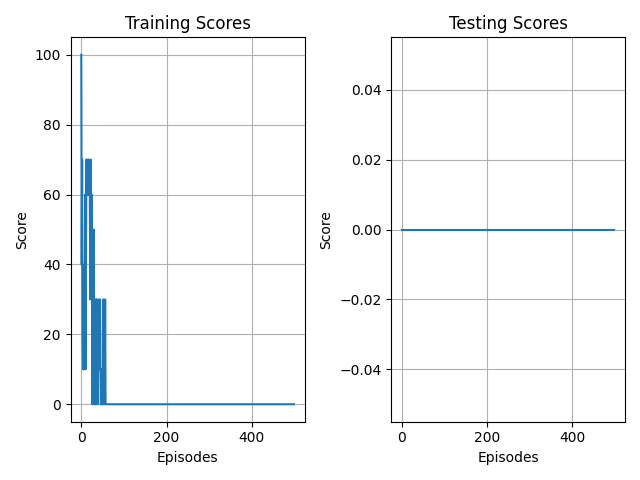
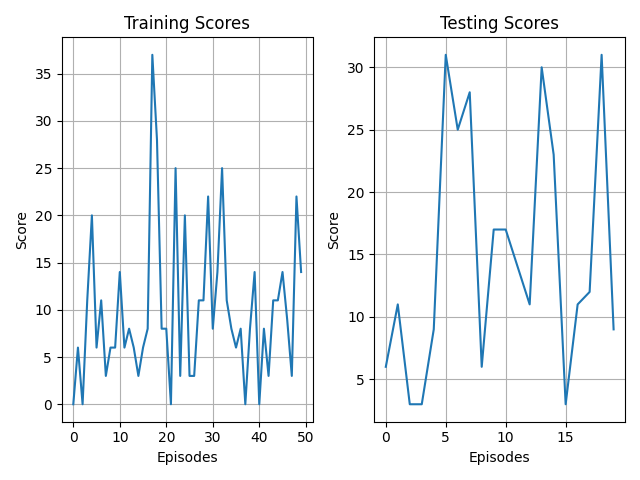
tuning

diff --git a/overcooked_wrapper.py b/overcooked_wrapper.py
@@ -14,18 +14,22 @@ class OvercookedGymWrapper(gym.Env):
         super(gym.Env, self).__init__()
 
         DEFAULT_ENV_PARAMS = {
-            "horizon": 1000
+            "horizon": 500
         }
-        rew_shaping_params = {
-            "PLACEMENT_IN_POT_REW": 10,
-            "DISH_PICKUP_REWARD": 10,
-            "SOUP_PICKUP_REWARD": 10,
-            "DISH_DISP_DISTANCE_REW": 2,
-            "POT_DISTANCE_REW": 2,
-            "SOUP_DISTANCE_REW": 2,
+        params_to_overwrite = {
+            "rew_shaping_params": {
+                "PLACEMENT_IN_POT_REW": 3,
+                "DISH_PICKUP_REWARD": 3,
+                "SOUP_PICKUP_REWARD": 5,
+                "DISH_DISP_DISTANCE_REW": 0, 
+                "POT_DISTANCE_REW": 0,
+                "SOUP_DISTANCE_REW": 0,
+            }
         }
 
-        self.mdp = OvercookedGridworld.from_layout_name(layout_name=layout_name, rew_shaping_params=rew_shaping_params)
+
+
+        self.mdp = OvercookedGridworld.from_layout_name(layout_name=layout_name, params_to_overwrite=params_to_overwrite)
         mlp = MediumLevelActionManager.from_pickle_or_compute(self.mdp, NO_COUNTERS_PARAMS, force_compute=False)
 
         self.featurize_fn = lambda x: self.mdp.featurize_state(x, mlp)
@@ -63,11 +67,15 @@ class OvercookedGymWrapper(gym.Env):
             joint_action = (alt_action, ego_action)
 
         next_state, reward, done, info = self.base_env.step(joint_action)
-
+        # try:
+        #     if(info['episode'] is not None):
+        #         print(info)
+        # except:
+        #     j = 1
         # reward shaping
         rew_shape = info['shaped_r_by_agent']
         reward = np.sum(rew_shape) + reward
-
+        #print(info)
         #print(self.base_env.mdp.state_string(next_state))
         ob_p0, ob_p1 = self.featurize_fn(next_state)
         if self.ego_agent_idx == 0:
@@ -75,7 +83,7 @@ class OvercookedGymWrapper(gym.Env):
         else:
             ego_obs, alt_obs = ob_p1, ob_p0
 
-        return (ego_obs, alt_obs), (reward, reward), done, {}#info
+        return (ego_obs, alt_obs), (reward, reward), done, {}#info#info
 
     def multi_reset(self):
         """

diff --git a/interactions/ppo_interaction.py b/interactions/ppo_interaction.py
@@ -2,14 +2,14 @@ import torch as torch
 import gymnasium as gym
 from agents.ppo_agents import PPOActorNetwork, PPOCriticNetwork
 from tqdm import tqdm
-from configs.agent_configs.a_ppo_agents import critic_configs, actor_configs
+from configs.agent_configs.a_ppo_agents_overcooked import critic_configs, actor_configs
 import torch.distributions as dist
 from replay_buffer import PPOReplayBuffer
 import numpy as np
 from collections import deque
 import random
 from utils import get_environment, get_render_mode
-
+from overcooked_ai_py.agents.agent import RandomAgent
 class PPO_interaction:
     def __init__(self, interaction_config, actor_configs, critic_configs):
         self.env = get_environment(interaction_config, train=True)
@@ -38,7 +38,6 @@ class PPO_interaction:
         # Initialize memory
         self.memory = PPOReplayBuffer(capacity=interaction_config.capacity, 
                                    batch_size=self.batch_size)
-
     def act(self, state):
         with torch.no_grad():
             action_probs = self.old_policy.model(state)
@@ -121,6 +120,7 @@ class PPO_interaction:
         """
         train_scores = []
         step = 0
+        mlp_teammate = RandomAgent()
         for e in tqdm(range(self.num_episodes)):
             states, actions, rewards, logprobs, dones, values = [], [], [], [], [], []
 
@@ -137,7 +137,10 @@ class PPO_interaction:
                 v = self.critic.model(s_tensor)
 
                 # Step in environment
-                s_, r, terminated, truncated = self.env.multi_step(a, a)
+                alt_action = mlp_teammate.action(self.env.base_env.state)[0][0]
+                s_, r, terminated, truncated = self.env.multi_step(a, alt_action)
+
+
                 done = bool(np.any(terminated) or np.any(truncated))
 
                 # Append to states

diff --git a/utils.py b/utils.py
@@ -11,7 +11,28 @@ def get_render_mode(render_mode):
     }
     return render_modes.get(render_mode.lower(), None)
 
-def get_environment(config, train=True):
-    render = config.render_mode_train if train else config.render_mode_test
-    render = False if render == "None" else True
-    return OvercookedGymWrapper(layout_name="cramped_room")
+def get_environment(config, train):
+    """
+    Helper function to load in the environment from config.
+    The point of having this function is so that you can specify the environment in a config file without having to hard-code it into the Interaction file/notebook.
+    Inputs:
+    - config (dict): The config for the interaction class. This is usually a Python dictionary
+    - train (Bool): This indicates whether we are calling the environment from a training or testing loop. We may wish to specify different training modes for each.
+    """
+    if config.env.lower() == "overcooked":
+        render = config.render_mode_train if train else config.render_mode_test
+        render = False if render == "None" else True
+        return OvercookedGymWrapper(layout_name="cramped_room")
+    # Get the training mode specified by config
+    if train:
+        render_mode = get_render_mode(config.render_mode_train)
+    else:
+        render_mode = get_render_mode(config.render_mode_train)
+
+    # Decide whether the environment is discrete or continuous
+    continuous = config.continuous
+
+    # Use elif statements to select the environment
+    if config.env.lower() == "lunarlander-v3":
+        return gym.make("LunarLander-v3", continuous=continuous, render_mode=render_mode)
+    

diff --git a/configs/agent_configs/a_ppo_agents_overcooked.py b/configs/agent_configs/a_ppo_agents_overcooked.py
@@ -4,7 +4,7 @@ critic_configs = Config({
 # INTERACTION CONFIGURATIONS:
 
 # AGENT CONFIGURATIONS
-"learning_rate": 5e-5,
+"learning_rate": 1e-5,
 "replay_buffer_size": 100000,
 "loss_function": "mseloss",
 "optimizer": "adam",
@@ -24,7 +24,7 @@ critic_configs = Config({
 
 actor_configs = Config({
 # AGENT CONFIGURATIONS
-"learning_rate": 5e-5,
+"learning_rate": 1e-5,
 "replay_buffer_size": 100000,
 #"loss_function": "mseloss", # We are performing gradient ascent, so we will need to fix this
 "optimizer": "adam",
@@ -36,7 +36,7 @@ actor_configs = Config({
 "hidden_layer_sizes": [1024, 1024],
 "activations": ["ReLU", "ReLU"],
 "learning_frequency": 2,
-"c": 0.2, # clipping range
+"c": 0.3, # clipping range
 "is_actor": True,
 "entropy_coef": 0.01,
 "use_shaped_reward": True

diff --git a/experiments/gpurun.py b/experiments/gpurun.py
@@ -10,8 +10,8 @@ sys.path.append(parent_dir)
 
 # Now you should be able to import
 from interactions import ppo_interaction as ppo
-from configs.interaction_configs.ppo_overcooked import ppo_interaction_config
-from configs.agent_configs.a_ppo_agents import actor_configs, critic_configs
+from configs.interaction_configs.ppo_interaction_overcooked import ppo_interaction_config
+from configs.agent_configs.a_ppo_agents_overcooked import actor_configs, critic_configs
 
 
 trainer = ppo.PPO_interaction(ppo_interaction_config, actor_configs, critic_configs)

diff --git a/configs/interaction_configs/ppo_interaction_overcooked.py b/configs/interaction_configs/ppo_interaction_overcooked.py
@@ -2,16 +2,16 @@ from configs.config_class import Config
 
 ppo_interaction_config = Config({
   "env": "overcooked",
-  "training_episodes": 500,
-  "testing_episodes": 500,
+  "training_episodes": 150,
+  "testing_episodes": 20,
   "render_mode_train": "None",
   "render_mode_test": "human",
   "batch_size": 64,
-  "capacity": 4096,
+  "capacity": 8192,
   "gamma": 0.99,
-  "k": 1,
-  "num_epochs": 250,
+  "k": 4,
+  "num_epochs": 2500,
   "update_frequency": 5,
-  "learning_rate": 5e-6,
-  "c": 0.1
+  "learning_rate": 1e-5,
+  "c": 0.3
 })
